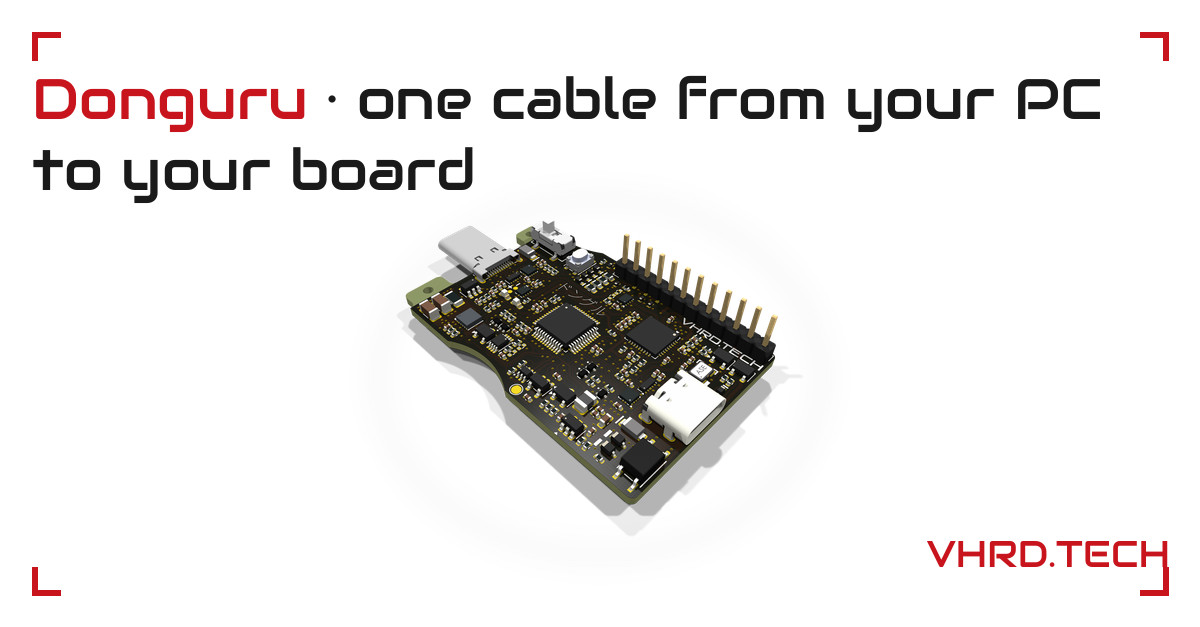
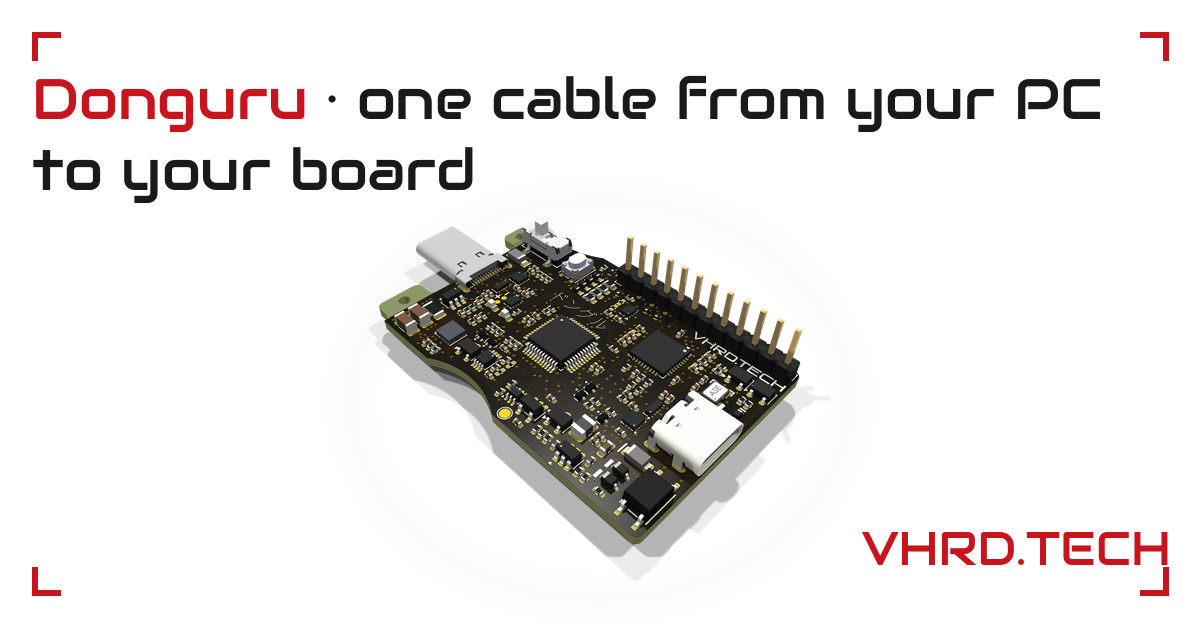
Share images, round 5: board close to the corners, wordmark mirrors the headline
- The board's bottom edge may now come within 12-16px of the bottom
  corner marks' own legs, never touching: it no longer has to stop
  short for a separate wordmark row, since the wordmark (below) now
  sits over the board's own area near that corner instead. Boards end
  up 26-31% bigger than the first round-5 pass for a two-line
  headline, 55% for /software's one-liner, inside the 25-35% range
  asked for two rounds ago, now that relaxing the corner clearance
  (not the 40px headline floor or the 32px frame inset, both kept)
  made the room for it.
- The wordmark is about 1.25x bigger again, and moved off the corner
  mark it was sitting right on (a previous pass trimmed its margin to
  zero): its baseline now sits the same distance above the frame's
  bottom edge as the headline's cap top sits below the frame's top
  edge, a deliberate mirror (head_top() and the wordmark's placement
  in compose() share one constant, not two numbers that happen to
  match), its own ink still flush with the right corners' outer edge.

Changed region(s): [[0.3083, 0.3333, 0.6783, 0.9091], [0.7092, 0.8485, 0.9867, 0.9091]]

diff --git a/tools/og_images.py b/tools/og_images.py
@@ -76,12 +76,13 @@ MARK_LEN, MARK_W = 28, 5  # the corner marks' leg length and thickness, like .fi
 # LinkedIn's 1:1 centre crop — fine, the board alone is kept centred and big enough for that crop (Roman,
 # round 5, 6 Nov 2026).
 FRAME_MARGIN = 32
-# Everything — headline, board, wordmark — stays inside the corner-marked frame with its own margin, clear of
-# the corner marks' own legs too: both trimmed to the minimum that still clears those legs, to leave the board
-# as much of the frame's interior as possible (Roman, round 5, "board bigger" pass, 6 Nov 2026).
+# The headline's top, clear of the top corner marks' own legs (MARK_LEN tall) with a small margin: "the
+# headline's cap top" sits this far below the frame's own top edge. The wordmark's bottom (its baseline)
+# mirrors this same gap up from the frame's bottom edge (BOARD_CORNER_GAP and the wordmark placement in
+# compose(), below) — the same distance on both ends, by design, not two independent numbers (Roman, round 5,
+# "mirror" pass, 6 Nov 2026).
 CONTENT_PAD_X = 16
 CONTENT_PAD_Y_TOP = MARK_LEN + 2
-CONTENT_PAD_Y_BOTTOM = MARK_LEN
 
 # The headline: Audiowide (the wordmark's face), its capital letters' ink flush with the left corners' own
 # outer edge (not an extra inset — "the D of Donguru" sits on the imaginary line the corner marks' vertical
@@ -100,11 +101,15 @@ HEAD_BOARD_GAP = 22  # a clearly visible gap (the headline sat right on top of t
 # 16): less than the 32 the previous pass used, traded for a bigger board, but still twice that original gap.
 
 # The board's own bounding box (the render's margin is transparent) is scaled to fit this box, centred
-# horizontally on the canvas and vertically in the band below the headline and above the wordmark, well inside
-# the HxH square a square crop keeps.
+# horizontally on the canvas and vertically in the band below the headline and its gap. Its bottom edge may
+# now come within BOARD_CORNER_GAP of the bottom corner marks' own legs — closer than the margin the headline
+# and the wordmark keep, since the board's width never reaches the legs' x-range (they sit only in the outer
+# ~60px either side, the board nowhere near that once centred within SAFE_W) — never touching them, but no
+# longer held back by the wordmark either: the wordmark now sits over the board's own area near the corner,
+# not in a separate row below it (Roman, round 5, "board bigger, again" pass, 6 Nov 2026).
 SAFE_W = 580
-WORDMARK_H = 26  # 1.3x the wordmark's original 20px (Roman, round 5, 6 Nov 2026)
-BOARD_WORDMARK_GAP = 4
+BOARD_CORNER_GAP = 14  # within Roman's given 12-16px
+WORDMARK_H = 33  # 1.25x the previous round's 26px (Roman, round 5, "mirror" pass, 6 Nov 2026)
 # A soft dark shadow behind the white PNG headline (not an outline, which read as hollow), so it still reads on
 # a light background once a platform composites the transparency away.
 SHADOW_COLOR = (8, 8, 10, 170)
@@ -157,11 +162,10 @@ def frame_box():
     return FRAME_MARGIN, FRAME_MARGIN, W - FRAME_MARGIN, H - FRAME_MARGIN
 
 
-def content_box():
-    """The frame's interior, clear of the corner marks' own legs: everything drawn (headline, board, wordmark)
-    stays inside this box."""
-    fx0, fy0, fx1, fy1 = frame_box()
-    return fx0 + CONTENT_PAD_X, fy0 + CONTENT_PAD_Y_TOP, fx1 - CONTENT_PAD_X, fy1 - CONTENT_PAD_Y_BOTTOM
+def head_top():
+    """The headline's cap top: this far below the frame's own top edge, clear of the top corner marks' own
+    legs. The wordmark's bottom mirrors this same distance up from the frame's bottom edge (compose())."""
+    return frame_box()[1] + CONTENT_PAD_Y_TOP
 
 
 def board_render(board_dir, view):
@@ -278,7 +282,7 @@ def draw_headline(canvas, font, lines, x_start, line_pitch, headline, fill, acce
     """The headline already fit by fit_headline, painted at the top of the frame's interior: the words up to
     " · " in accent (this image's one red), the rest in fill. shadow draws a soft dark halo behind the text
     first (the PNG variant, for a light background), rather than an outline."""
-    cy0 = content_box()[1]
+    cy0 = head_top()
     dot_at = next((i for i, w in enumerate(headline.split(" ")) if w == "·"), None)
     space = font.getlength(" ")
 
@@ -305,10 +309,11 @@ def draw_headline(canvas, font, lines, x_start, line_pitch, headline, fill, acce
 
 
 def compose(board_dir, view, headline, font_path, headline_fill, red, headline_shadow=False):
-    cx0, cy0, cx1, cy1 = content_box()
+    fy1 = frame_box()[3]
+    cy0 = head_top()
     font, lines, x_start, line_pitch, head_h = fit_headline(font_path, headline)
     board_top = cy0 + head_h + HEAD_BLOCK_BUFFER + HEAD_BOARD_GAP
-    board_bottom_max = cy1 - WORDMARK_H - BOARD_WORDMARK_GAP
+    board_bottom_max = fy1 - BOARD_CORNER_GAP
     safe_h = board_bottom_max - board_top
 
     board = board_render(board_dir, view)
@@ -333,12 +338,16 @@ def compose(board_dir, view, headline, font_path, headline_fill, red, headline_s
     canvas.alpha_composite(board, (x, y))
     draw_corner_marks(canvas, red)
 
-    # The wordmark sits in its own row at the bottom of the frame's interior, its own ink flush with the right
-    # corners' outer vertical edge (the same treatment as the headline's left edge, above), with a fixed gap
-    # above the frame's bottom edge and below the board, so the two never touch (Roman, round 5, 6 Nov 2026).
+    # The wordmark's baseline sits CONTENT_PAD_Y_TOP above the frame's bottom edge — the same distance up as
+    # the headline's cap top sits down from the frame's top edge, a deliberate mirror, not two independent
+    # numbers — its own ink flush with the right corners' outer vertical edge (the same treatment as the
+    # headline's left edge, above). It now sits over the board's own area near that corner, not in a separate
+    # row below it: the board's bottom edge is free to run past where the wordmark used to hold it back
+    # (Roman, round 5, "mirror" pass, 6 Nov 2026).
     fx1 = frame_box()[2]
     wm = wordmark_png(round(WORDMARK_H * 13424 / 1434), WORDMARK_H, red)
-    wm_x, wm_y = fx1 - wm.width, cy1 - wm.height
+    wm_bottom = fy1 - CONTENT_PAD_Y_TOP
+    wm_x, wm_y = fx1 - wm.width, wm_bottom - wm.height
     canvas.alpha_composite(wm, (wm_x, wm_y))
 
     draw_headline(canvas, font, lines, x_start, line_pitch, headline, headline_fill, red, headline_shadow)

diff --git a/FEATURES.md b/FEATURES.md
@@ -45,7 +45,7 @@ Status: ✅ done · 🚧 in progress · 📋 planned · 💡 idea · 🐛 bug
 
 - ✅ ASSET-1 board-renders: `just renders` (`scripts/render_boards.py`, uv) rebuilds `static/img/boards/<bnnn>-<slug>/` from the newest revision of each board's KiCad project in `~/git/hw`: hero (whole board, 3/4 angle, with margin), detail (tighter 3/4 close-up), top and bottom views via `kicad-cli pcb render` (transparent, raytraced, black solder mask / white silkscreen forced on a temp copy so `~/git/hw` is never touched), cropped tight, 2400px PNG source (not shipped) plus AVIF/WebP at 480/640/1280/1920px (`--variants` makes missing widths from the PNGs without KiCad), with a `manifest.toml` per board (product, revision, source file, hw git hash, per-view alt text). Silkscreen fonts are checked against `fc-list` before rendering, failing loudly on a missing one. 3D model library paths are machine-local env vars (`KICAD6..10_3DMODEL_DIR`, `VHRD_3DMODEL_DIR`), not committed. A board whose `.kicad_pcb` has no `(stackup ...)` at all (B198) gets a plain 2-layer one inserted on the temp copy before the colour patch, so it still comes out black-mask; a board with inner copper layers and no stackup fails loudly instead of guessing one. Covers the front-page boards (Donguru, Pinsmith, B125, B135), B129, B133, B107 FlexyRJ45, B146 DB-9 to Nano-Fit and B198 J-Link to Tag-Connect; board numbers as arguments (`just renders b129 b133`) render only those. The rest of `~/git/hw`'s boards are a later task.
 
-- ✅ ASSET-2 og-images: `just og` (`tools/og_images.py`, uv, Pillow and cairosvg, vhrd_brand's Audiowide ttf) writes the link-preview images under `static/img/og/`: a board's hero render, cropped to its own content, below a large Audiowide headline, inside a 1200x627 canvas (1.91:1, never 1200x630, which falls under the 1.91:1 ratio LinkedIn needs for its large card). Four corner marks sit near the card's own edges (an even inset from the full canvas, not the square crop), enclosing the headline, the board and the wordmark with a margin, clear of the marks' own legs; the headline's first line's own ink sits flush with the left corners' outer edge (Audiowide, 40px cap height, up to two lines), the product name before " · " in that image's one red; the board fills the band between the headline and the wordmark's own row (`fit_headline()` measures each headline's actual ink height, so a one-line headline leaves it more room than a two-line one, instead of a fixed worst-case band leaving an empty strip), with a clear gap kept either way (a first pass sat the board right under the text), and stays visible in the 627x627 square crop LinkedIn's small organic-post thumbnail and messengers make from it too — the wider corner frame and the headline are cut by that narrower crop, which is fine, since only the board needs to survive it; a faint halo sits tight to the board; the wordmark (about 1.3x its first-round size, in that image's one red) keeps a fixed gap from the board and its own ink sits flush with the right corners' outer edge. One red per image, not two: corners, wordmark and headline name are all `--vhrd-red`/light `--accent` (`#c8141c`) on the JPEG, dark `--accent` (`#f24c44`) on the PNG (round 5, Roman, 6 Nov 2026). Written twice per page, each truecolour and each name carrying a version so LinkedIn, Facebook and Telegram, which cache a preview by its image URL, fetch the new ones: a lossless RGBA PNG on a transparent background (`default-4.png`, ...; no palette quantization, which once came out blurry and posterised on LinkedIn's Post Inspector, Roman, 6 Nov 2026), headline solid white with a soft dark shadow (not an outline, which read hollow), for `twitter:image` (X reads it first and shows it on its own light or dark theme); and a JPEG (quality 90, 4:4:4 chroma, baseline not progressive) flattened onto white (`default-4.jpg`, ...), headline solid near-black, for `og:image` (LinkedIn and Facebook show a card on white and fill a transparent image's alpha with a dull grey instead, round 4, Roman, 6 Nov 2026). `templates/base.html` sets `author`, `og:site_name`, `og:locale`, `og:image`, `og:image:secure_url`, `og:image:type`, `og:image:width`/`height`/`alt` and `twitter:card` (`summary_large_image`) / `twitter:image` on every page, from `config.toml`'s `extra.og_image` / `extra.twitter_image` (the Donguru render) or a page's own (/donguru, /pinsmith, /can, /software, /work, each its own board and headline). Every page's meta description and `og:description` are 100-125 characters, the home page's naming no product. `tools/check_pages.py` checks every page's `og:image` is an absolute URL to a real 1200x627 truecolour JPEG at or above the 1.91:1 ratio matching its own width/height/secure_url meta, `twitter:image` a different, real 1200x627 truecolour PNG with an alpha channel, a non-empty alt that does not name a background colour, the description's length, and that no `og:*`/`twitter:*`/`description` meta tag appears twice. `just og --check` composites the default and /donguru images onto Facebook's and X's own card backgrounds, and at LinkedIn's small ~160px thumbnail size, into `target/shots/og5-*.png`, for a by-eye look (round 5, Roman, 6 Nov 2026)
+- ✅ ASSET-2 og-images: `just og` (`tools/og_images.py`, uv, Pillow and cairosvg, vhrd_brand's Audiowide ttf) writes the link-preview images under `static/img/og/`: a board's hero render, cropped to its own content, below a large Audiowide headline, inside a 1200x627 canvas (1.91:1, never 1200x630, which falls under the 1.91:1 ratio LinkedIn needs for its large card). Four corner marks sit near the card's own edges (an even inset from the full canvas, not the square crop), enclosing the headline with a margin clear of the marks' own legs; the headline's first line's own ink sits flush with the left corners' outer edge (Audiowide, 40px cap height, up to two lines), the product name before " · " in that image's one red; the board fills the space between the headline's gap and the bottom margin (`fit_headline()` measures each headline's actual ink height, so a one-line headline leaves it more room than a two-line one, instead of a fixed worst-case band leaving an empty strip), with a clear gap kept below the headline either way (a first pass sat the board right under the text), and stays visible in the 627x627 square crop LinkedIn's small organic-post thumbnail and messengers make from it too — the wider corner frame and the headline are cut by that narrower crop, which is fine, since only the board needs to survive it. The board's own bottom edge may come within 12-16px of the bottom corner marks' legs, never touching (its width never reaches their x-range); a faint halo sits tight to the board. The wordmark (about 1.3x its first-round size, 1.25x again this round, in that image's one red) sits over the board's own area near the bottom-right corner, its own ink flush with the right corners' outer edge and its baseline the same distance above the frame's bottom edge as the headline's cap top sits below the frame's top edge — a deliberate mirror, after an earlier pass left it sitting right on the corner mark with no margin. One red per image, not two: corners, wordmark and headline name are all `--vhrd-red`/light `--accent` (`#c8141c`) on the JPEG, dark `--accent` (`#f24c44`) on the PNG (round 5, Roman, 6 Nov 2026). Written twice per page, each truecolour and each name carrying a version so LinkedIn, Facebook and Telegram, which cache a preview by its image URL, fetch the new ones: a lossless RGBA PNG on a transparent background (`default-4.png`, ...; no palette quantization, which once came out blurry and posterised on LinkedIn's Post Inspector, Roman, 6 Nov 2026), headline solid white with a soft dark shadow (not an outline, which read hollow), for `twitter:image` (X reads it first and shows it on its own light or dark theme); and a JPEG (quality 90, 4:4:4 chroma, baseline not progressive) flattened onto white (`default-4.jpg`, ...), headline solid near-black, for `og:image` (LinkedIn and Facebook show a card on white and fill a transparent image's alpha with a dull grey instead, round 4, Roman, 6 Nov 2026). `templates/base.html` sets `author`, `og:site_name`, `og:locale`, `og:image`, `og:image:secure_url`, `og:image:type`, `og:image:width`/`height`/`alt` and `twitter:card` (`summary_large_image`) / `twitter:image` on every page, from `config.toml`'s `extra.og_image` / `extra.twitter_image` (the Donguru render) or a page's own (/donguru, /pinsmith, /can, /software, /work, each its own board and headline). Every page's meta description and `og:description` are 100-125 characters, the home page's naming no product. `tools/check_pages.py` checks every page's `og:image` is an absolute URL to a real 1200x627 truecolour JPEG at or above the 1.91:1 ratio matching its own width/height/secure_url meta, `twitter:image` a different, real 1200x627 truecolour PNG with an alpha channel, a non-empty alt that does not name a background colour, the description's length, and that no `og:*`/`twitter:*`/`description` meta tag appears twice. `just og --check` composites the default and /donguru images onto Facebook's and X's own card backgrounds, and at LinkedIn's small ~160px thumbnail size, into `target/shots/og5-*.png`, for a by-eye look (round 5, Roman, 6 Nov 2026)
 
 ## PREVIEW: publishing
 

diff --git a/AGENTS.md b/AGENTS.md
@@ -234,11 +234,14 @@ per page (no blog, no articles), so `author` is the same for every page and ther
     they go on showing the old file. A change to `IMAGES` in `tools/og_images.py` is followed by the same names
     in `config.toml`'s `extra.og_image` / `extra.twitter_image` and each page's own, in its front matter.
   - **Four red corner marks sit near the card's own edges** (brand red, like `.fig-frame`'s datasheet corners;
-    an even inset from the 1200×627 canvas, not from the square crop), enclosing the headline, the board and
-    the wordmark with a margin, clear of the marks' own legs too (`content_box()` in the script): after an
-    earlier pass framed a narrower square in the middle, letting the headline bleed past it and the wordmark
-    overlap the board. LinkedIn's narrower 1:1 centre crop cuts the corners and the headline — intended, since
-    only the board needs to stay inside that one (above; Roman, round 5, 6 Nov 2026).
+    an even inset from the 1200×627 canvas, not from the square crop), enclosing the headline with a margin
+    clear of the marks' own legs (`head_top()` in the script): after an earlier pass framed a narrower square
+    in the middle, letting the headline bleed past it. LinkedIn's narrower 1:1 centre crop cuts the corners and
+    the headline — intended, since only the board needs to stay inside that one (above; Roman, round 5, 6 Nov
+    2026). The board itself may come within `BOARD_CORNER_GAP` (12-16px) of the bottom corner marks' own legs,
+    never touching them: its width never reaches the legs' own x-range (the outer ~60px either side, the board
+    nowhere near that once centred), so this is safe even that close (Roman, round 5, "board bigger, again"
+    pass, 6 Nov 2026).
   - **One red per image, not two.** The corners, the wordmark and the headline's product name are all the
     same colour: vhrd_brand's light-theme `--vhrd-red`/`--accent` (`#c8141c`) on the JPEG, its dark-theme value
     (`#f24c44`) on the PNG — not a fixed red on every image regardless of which card it sits on (Roman, round
@@ -249,21 +252,25 @@ per page (no blog, no articles), so `author` is the same for every page and ther
     Audiowide at a 40px cap height, the floor from "no small print" (every headline below fits two lines
     there). The words up to a " · " separator are in that image's one red (above); the rest is in the body
     colour.
-  - **The board is scaled to fill the band between the headline and the wordmark's row, not a fixed height
-    reserved for the worst case on every page.** `fit_headline()` measures each headline's own wrapped ink
+  - **The board fills the space between the headline's gap and the bottom margin**, not a fixed height
+    reserved for the worst case on every page: `fit_headline()` measures each headline's own wrapped ink
     height — a two-line one leaves it less room than a one-line one (/software) — so the board is bigger
-    wherever the headline takes less space, with a clearly visible gap kept between them either way (a first
-    pass sat the board right under the text; reserving one fixed band for every page, after that fix, then
-    left the board a visibly empty strip below a short headline instead of growing into it). It is centred
-    horizontally on the canvas, with margin either side of the 627×627 square crop LinkedIn and messengers make
-    from a 1.91:1 card, so the whole board stays in view there too, and above the wordmark's own row; the
-    script refuses to write a file where it wouldn't.
+    wherever the headline takes less space, with a clearly visible gap kept below the headline either way (a
+    first pass sat the board right under the text; a fixed band for every page, after that fix, then left the
+    board a visibly empty strip below a short headline instead of growing into it). It is centred horizontally
+    on the canvas, with margin either side of the 627×627 square crop LinkedIn and messengers make from a
+    1.91:1 card, so the whole board stays in view there too; the script refuses to write a file where it
+    wouldn't. The wordmark (below) now sits over the board's own area near the bottom-right corner rather than
+    in a separate row the board had to stop short of.
   - A faint white halo (blurred, low opacity, tight to the board) sits behind it: close to invisible on a white
     or light card, and just enough to keep a dark board's edge from vanishing into a black one.
-  - A VHRD.TECH wordmark (from `static/img/wordmark.svg`, in that image's one red; about 1.3× its first-round
-    size), its own ink — not the raster canvas's edge — flush with the right corners' outer vertical edge, same
-    treatment as the headline's left edge, sits in its own row at the bottom of the frame's interior, with a
-    fixed gap above the frame's bottom edge and below the board, so the two never touch.
+  - **A VHRD.TECH wordmark** (from `static/img/wordmark.svg`, in that image's one red; about 1.3× its
+    first-round size, 1.25× again this round after an earlier pass left it sitting right on the corner mark
+    with no margin at all) sits in the bottom-right, its own ink — not the raster canvas's edge — flush with
+    the right corners' outer vertical edge, the same treatment as the headline's left edge. Its baseline sits
+    `CONTENT_PAD_Y_TOP` above the frame's bottom edge: the exact same distance the headline's cap top sits
+    below the frame's top edge, a deliberate mirror (`head_top()` and the wordmark placement in `compose()`),
+    not two independent numbers (Roman, round 5, "mirror" pass, 6 Nov 2026).
   - Each image stays a few hundred KB, under the script's 1 MB budget: LinkedIn and Facebook accept files up to
     5-8 MB, but a smaller one loads faster.
   - Run it again after a change to a board's hero render, a headline, the wordmark or the script itself; `just

diff --git a/CHANGELOG.md b/CHANGELOG.md
@@ -4,7 +4,7 @@
 
 ### Added
 
-- Share images, round 5 (ASSET-2 og-images): a large Audiowide headline above the board on every `og:image`/`twitter:image`, wrapped to at most two lines, the product name before " · " in one red, not two side by side — `--vhrd-red`/light `--accent` (`#c8141c`) on the JPEG, dark `--accent` (`#f24c44`) on the PNG, the same colour the corners and the wordmark use on that image. `/donguru` gets its own image, split off the site default. The canvas stays exactly 1200x627 (1.91:1): 1200x630, considered this round, falls to 1.905:1, under the 1.91:1 LinkedIn needs to show its large card at all, so it was dropped — `tools/check_pages.py` now asserts the ratio explicitly, not only the exact pixel size. The four corner marks sit near the card's own edges (not a narrower square in the middle), enclosing the headline, the board and the wordmark with a margin: the headline's first line and the wordmark's own ink sit flush with the left and right corners' outer edges respectively (not inset further, and not their font/raster bounding boxes — the visible ink itself); LinkedIn's narrower 1:1 centre crop still cuts the corners and the headline, which is fine since only the board needs to survive it. The PNG headline is solid white with a soft shadow, not the hollow outline a first pass used. The board now fills the band between the headline and the wordmark, sized from each headline's own measured height rather than a fixed worst-case reservation, so a one-line headline (/software) leaves it noticeably bigger instead of an empty gap; every image's board is bigger than the first pass's, with a still-clear gap kept below the headline. The wordmark is about 1.3x bigger. Every page's description is now 100-125 characters, not 100-160 (LinkedIn warns under 100 and truncates near 125). File names bump to `-4` so LinkedIn, Facebook and Telegram refetch instead of showing a cached preview.
+- Share images, round 5 (ASSET-2 og-images): a large Audiowide headline above the board on every `og:image`/`twitter:image`, wrapped to at most two lines, the product name before " · " in one red, not two side by side — `--vhrd-red`/light `--accent` (`#c8141c`) on the JPEG, dark `--accent` (`#f24c44`) on the PNG, the same colour the corners and the wordmark use on that image. `/donguru` gets its own image, split off the site default. The canvas stays exactly 1200x627 (1.91:1): 1200x630, considered this round, falls to 1.905:1, under the 1.91:1 LinkedIn needs to show its large card at all, so it was dropped — `tools/check_pages.py` now asserts the ratio explicitly, not only the exact pixel size. The four corner marks sit near the card's own edges (not a narrower square in the middle), enclosing the headline, the board and the wordmark with a margin: the headline's first line and the wordmark's own ink sit flush with the left and right corners' outer edges respectively (not inset further, and not their font/raster bounding boxes — the visible ink itself); LinkedIn's narrower 1:1 centre crop still cuts the corners and the headline, which is fine since only the board needs to survive it. The PNG headline is solid white with a soft shadow, not the hollow outline a first pass used. The board fills the space between the headline's gap and the bottom margin, sized from each headline's own measured height rather than a fixed worst-case reservation, so a one-line headline (/software) leaves it noticeably bigger instead of an empty gap. Its own bottom edge may now come within 12-16px of the bottom corner marks' legs, never touching (its width never reaches their x-range): boards end up 26-31% bigger than the first pass's for a two-line headline, 55% for /software's one-liner. The wordmark is about 1.3x bigger, then 1.25x again after a pass that trimmed its margin to zero left it sitting right on the corner mark: its baseline now sits the same distance above the frame's bottom edge as the headline's cap top sits below the frame's top edge, a deliberate mirror, and it sits over the board's own area near that corner rather than in a separate row the board had to stop short of. Every page's description is now 100-125 characters, not 100-160 (LinkedIn warns under 100 and truncates near 125). File names bump to `-4` so LinkedIn, Facebook and Telegram refetch instead of showing a cached preview.
 - /faq (SITE-16 faq-page): site-wide questions and answers from the approved FAQ draft, as `<details>` items grouped under three headings, The products, Working with us, The site, each with a stable anchor (`/faq/#cookies`, `#open-source`, `#shipping`, `#buy`...) that opens the right item on its own, no script needed. "Which computers do the tools work on?" names the real tools: IOWeaver, RockFace, `dg`, `cnt`, `ww` and `bedrock-lint` all run on Linux, Windows and macOS. Linked from the footer next to Privacy.
 - `LICENSE-MIT` and `LICENSE-APACHE` for the repo's code (templates, CSS, JS, `tools/`, `scripts/`, the `vhrd_notify` service); the content stays © VHRD.TECH AS, all rights reserved, and the IBM Plex fonts keep their own OFL notice.
 - Roman's photo next to "Who makes it" on /about (SITE-17 about-photo; Roman, 5 Nov 2026, it is already public on GitHub). AVIF and WebP at its native 460 px, EXIF and other metadata stripped, next to the founder paragraph on wider screens and centred above it on a phone.
